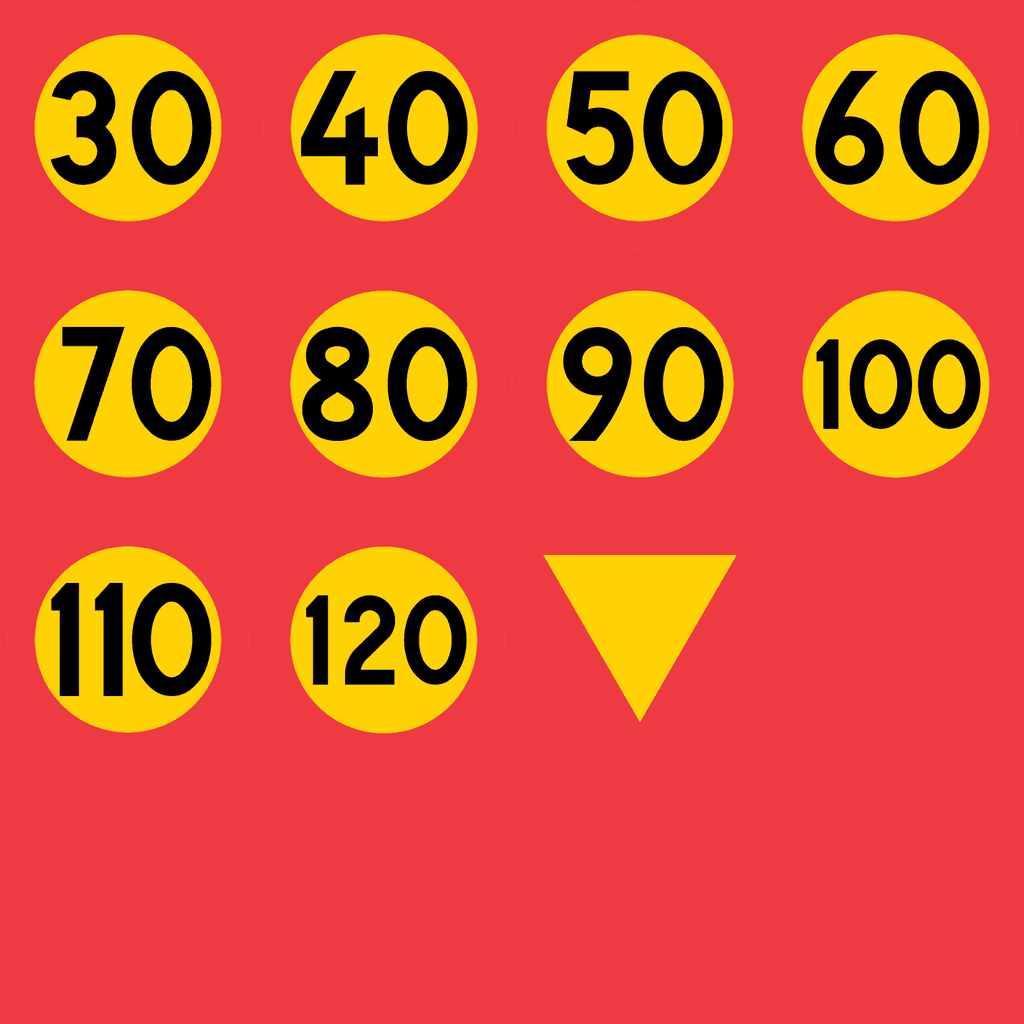
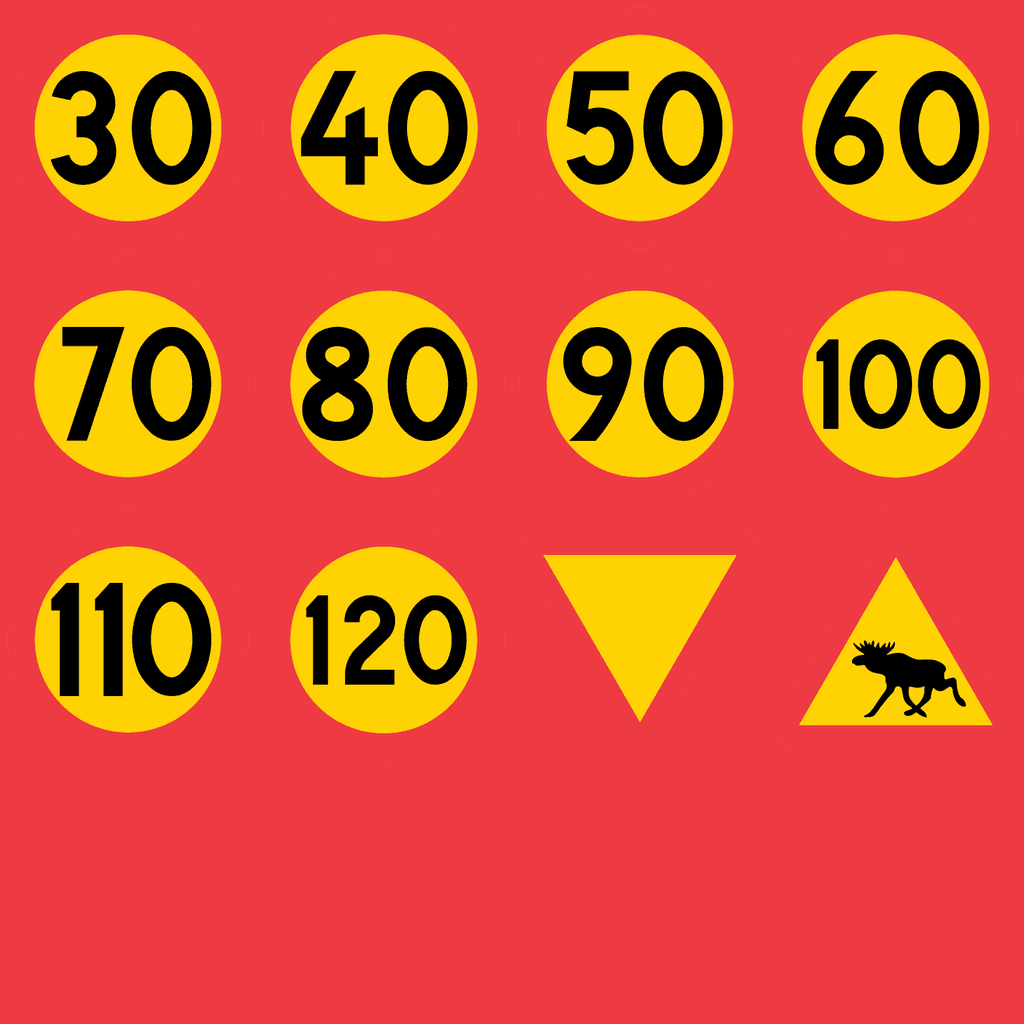
Sweden's moose sign A19, sparingly, on rural main roads
No data says where they stand (OpenStreetMap: 1 within 150 km of Borås; Trafikverket's API has no signs),
so a rule the user asked to keep light: rural two-lane trunk to tertiary roads at 70-100 km/h, a piece of
road junction to junction of L m (1 km or more) gets a pair with chance L / 15 km by a hash of its id, 150 m
in, facing the traffic entering it. One per 12-25 km per direction in Borås, Härnösand and Jämtland. No
motorway, 2+1 or divided road: those are fenced. Model: B1's triangle point up, Transportstyrelsen's A19-1
beside B1 on the first sign sheet.

Changed region(s): [[0.7812, 0.5312, 0.9688, 0.7188]]

diff --git a/server/sesigns.py b/server/sesigns.py
@@ -13,6 +13,11 @@ TSFS 2019:74.
     C1          both sides of the end of an exit ramp from a motorway or mötesfri väg, and of such an ögla (K237582)
     B3          both sides of a painted crossing without signals, at 60 km/h at most (TSFS 3 kap. 10-11 §§)
     E1, E2      where a motorway begins and ends, and on the ramps on to and off it (TSFS 6 kap. 3-4 §§, K237587)
+    A19         the moose, sparingly (the user: "very typical swedish thing but dont overdo it", 2026-11-03): no data
+                says where they stand (OpenStreetMap has 1 within 150 km of Borås, Trafikverket's API has no signs),
+                so on a rural two-lane main road at 70-100 km/h a piece of road (a map segment, between junctions) of
+                L m gets a pair with chance L / MOOSE_SPACING_M, by a hash of its id: MOOSE_FROM_M into it, each
+                facing the traffic entering it. Not on motorways, 2+1 roads or divided roads: those have game fences.
 
 Spansk sväng: the data has no turn bans (Overture's prohibited_transitions are not downloaded), so it is told by shape:
 a one-way link leaving a fast main road on the right that comes back across it, or ends beside it heading along it. Of
@@ -21,6 +26,7 @@ a one-way link leaving a fast main road on the right that comes back across it, 
 Tile independence: every place is worked out from motesfri._ways, which are the same near a place whichever tile reads
 them, and a tile keeps the rows in its box. Forest rows follow guardrails.forest_rows' layout.
 """
+import hashlib
 import math
 from collections import namedtuple
 
@@ -34,7 +40,7 @@ COUNTRIES = {"SE"}
 # Heights (mod trees.lua SE_SIGNS, tools/build_median_props.py): a row's height over its catalog's is its scale.
 HEIGHTS = {"se_f17": 2.70, "se_f17_400": 2.78, "se_f17_300": 2.78, "se_f17_200": 2.78, "se_f18_11": 2.70,
            "se_f18_12": 2.70, "se_f18_21": 2.70, "se_f2": 3.50, "se_c1": 2.10, "se_b3": 2.60, "se_e1": 2.70,
-           "se_e2": 2.70}
+           "se_e2": 2.70, "se_a19": 2.30}
 
 MIN_RUN_M = 300.0           # m of two lanes that are an overtaking stretch and not a junction's lane
 NEAR_M = 50.0               # F17 before the lane is 2.5 m wide where the arrows don't fit; and F18 before the barrier
@@ -61,6 +67,11 @@ RAMP_BACK_M = (5.0, 10.0, 15.0, 20.0, 30.0)  # m before a ramp's end its C1 stan
 RAMP_E_M = 20.0             # m from a ramp's end its E sign stand
 MOTORWAY_E_M = 30.0         # ... and a motorway's
 ZEBRA_KMH = 60.0
+MOOSE_SPACING_M = 15000.0   # m of such road to a pair of A19s, on average
+MOOSE_MIN_M = 1000.0        # m a piece of road is at least
+MOOSE_FROM_M = 150.0        # m into it from a junction
+MOOSE_SIDE_M = 1.5          # m past the road's edge (TSFS 1 kap. 13 §: 0.3-4.0)
+MOOSE_CLASSES = {"trunk", "primary", "secondary", "tertiary"}
 ZEBRA_M = 2.0               # m from a crossing's middle along the road to its B3 (M15 is 3-4 m long)
 ONE_ZEBRA_M = 6.0
 NEAR_NODE_M = 2.0           # crossings.NODE_NEAR_M
@@ -570,12 +581,41 @@ def all_signs(ways):
     return out
 
 
+def _moose_road(s):
+    return (s.kind == "paved" and not s.urban and not s.link and not s.oneway and s.cls in MOOSE_CLASSES
+            and 70.0 <= _limit(s) <= 100.0 and (s.lanes or 2) <= 2)
+
+
+def _chance(fid):
+    """A number in [0, 1) of a road's id, the same in every tile and run."""
+    return int(hashlib.sha1(str(fid).encode("utf-8")).hexdigest()[:8], 16) / 2.0 ** 32
+
+
+def moose_signs(near_roads):
+    """A19 on near_roads (build_tile's roads_out: whole ground pieces, the same in every tile), see the header."""
+    lines = [motesfri.Way(fid, s, {}, np.asarray(pts, np.float64)[:, :2], fid) for fid, s, pts, *_ in near_roads
+             if len(pts) >= 2]
+    out = []
+    for w in lines:
+        if not _moose_road(w.spec):
+            continue
+        length = _length(w.xy)
+        if length < MOOSE_MIN_M or _chance(w.fid) >= length / MOOSE_SPACING_M:
+            continue
+        for xy in (w.xy, w.xy[::-1]):
+            p, t = _point(xy, MOOSE_FROM_M)
+            q = p + _right(t) * (float(w.spec.width) / 2 + MOOSE_SIDE_M)
+            if _free(q, lines, {id(w)}):
+                out.append(Sign("se_a19", q, t))
+    return out
+
+
 def tile_rows(frame, ways, near_roads, nodes, box, elev, country):
     """Forest rows of road tile box: ways motesfri._ways' (None: only the zebras' B3, which need no wider cells),
     near_roads build_tile's roads_out, nodes crossings.nodes', elev(lat, lon) the ground."""
     if (country or "").upper() not in COUNTRIES:
         return []
     signs = all_signs(ways) if ways else []
-    signs = signs + zebra_signs(near_roads, (nodes or {}).get("zebras", ()))
+    signs = signs + zebra_signs(near_roads, (nodes or {}).get("zebras", ())) + moose_signs(near_roads)
     x0, y0, x1, y1 = box
     return [_row(s.group, s.p, s.facing, frame, elev) for s in signs if x0 <= s.p[0] < x1 and y0 <= s.p[1] < y1]

diff --git a/tools/build_median_props.py b/tools/build_median_props.py
@@ -123,6 +123,29 @@ def giveway(near):
     return m
 
 
+# A19-1, the moose (server/sesigns.py moose_signs): B1's triangle point up, its artwork beside B1's on bne_se_signs.png
+# (cell 3, 2), the same size (TSFS 2019:74 2 kap. 1 §: a warning sign's "normal" side 900 mm, B1's too)
+A19_CELL = (896.0, 640.0)
+A19_TOP = B1_TOP                    # (its lower edge B1's point: 1.5 m)
+
+
+def moose(near):
+    """A19: Z up from the ground, point up, its face towards -Y, on a post behind it."""
+    edge = [(x, -z) for x, z in reversed(b1_outline(6 if near else 1))]
+    mid = B1_LOW + (B1_TOP - B1_LOW) / 2
+    front, back = -B1_POST - B1_DEPTH, -B1_POST
+    m = Mesh(8)
+    m.face("bne_se_signs", [(x, front, mid + z) for x, z in edge],
+           [((A19_CELL[0] + x * B1_PX) / 1024, 1 - (A19_CELL[1] - z * B1_PX) / 1024) for x, z in edge])
+    m.face("bne_cable_steel", [(x, back, mid + z) for x, z in reversed(edge)])
+    if near:
+        for (x0, z0), (x1, z1) in zip(edge, edge[1:] + edge[:1]):
+            m.face("bne_cable_steel", [(x0, back, mid + z0), (x1, back, mid + z1), (x1, front, mid + z1),
+                                       (x0, front, mid + z0)])
+        m.cylinder("bne_cable_steel", 0.0, 0.0, -POST_SINK, A19_TOP - 0.05, B1_POST, caps=False)
+    return m
+
+
 # Sweden's signs of server/sesigns.py, on tools/build_swedish_signs.py's second sheet: picture's middle in px of 1024, its
 # drawn size in px, the plate in m and its shape. Sizes: "normal" of TSFS 2019:74 (F16-F18: 8 kap. 2 §, 1.20 m high; C1:
 # 4 kap. 1 § 0.60 m; B3: 3 kap. 1 § 0.60 m; E1, E2: 6 kap. 1 §, 0.90 m wide); F2 has none, its text's scale made it 2 m.
@@ -229,6 +252,11 @@ def main():
         path = os.path.join(OUT, name + ".dae")
         write_dae(path, name, [(32, se_sign(group, True)), (4, se_sign(group, False))], se_pole(group))
         print(path, os.path.getsize(path), "bytes", round(se_height(group), 2), "m")
+    path = os.path.join(OUT, "bne_se_a19.dae")
+    pole = Mesh(4)
+    pole.box("bne_cable_steel", (0.0, 0.0, A19_TOP / 2), (0.04, 0.04, A19_TOP / 2))
+    write_dae(path, "bne_se_a19", [(32, moose(True)), (4, moose(False))], pole)
+    print(path, os.path.getsize(path), "bytes", round(A19_TOP, 2), "m")
 
 
 if __name__ == "__main__":

diff --git a/server/tests/test_sesigns.py b/server/tests/test_sesigns.py
@@ -4,6 +4,7 @@ import os
 import re
 import sys
 import unittest
+import unittest.mock
 
 import numpy as np
 
@@ -321,3 +322,31 @@ class NodesTest(unittest.TestCase):
 
 if __name__ == "__main__":
     unittest.main()
+
+
+class MooseTest(unittest.TestCase):
+    def roads(self, **kw):
+        sp = spec(8.0, kw.get("cls", "secondary"), kw.get("oneway", False), kw.get("kmh", 80.0), 2,
+                  urban=kw.get("urban", False))
+        return [("r", sp, np.c_[np.zeros(9), np.linspace(0, kw.get("length", 3000.0), 9), np.zeros(9)], 13.0)]
+
+    def test_a_chosen_road_gets_one_each_way_facing_its_traffic(self):
+        with unittest.mock.patch.object(sesigns, "MOOSE_SPACING_M", 1.0):
+            got = sesigns.moose_signs(self.roads())
+        self.assertEqual(len(got), 2)
+        north_, south_ = sorted(got, key=lambda s: float(s.facing[1]), reverse=True)
+        self.assertAlmostEqual(float(north_.p[1]), sesigns.MOOSE_FROM_M, 3)
+        self.assertAlmostEqual(float(north_.p[0]), 4.0 + sesigns.MOOSE_SIDE_M, 3, "on the northbound traffic's right")
+        self.assertAlmostEqual(float(south_.p[1]), 3000.0 - sesigns.MOOSE_FROM_M, 3)
+        self.assertLess(float(south_.p[0]), 0.0)
+
+    def test_the_choice_is_the_roads_own(self):
+        self.assertEqual(sesigns._chance("r"), sesigns._chance("r"))
+        picked = sum(sesigns._chance(f"road{k}") < 0.2 for k in range(2000))
+        self.assertTrue(300 < picked < 500, picked)
+
+    def test_not_in_town_nor_on_fast_short_or_one_way_roads(self):
+        with unittest.mock.patch.object(sesigns, "MOOSE_SPACING_M", 1.0):
+            for kw in ({"urban": True}, {"cls": "motorway"}, {"kmh": 110.0}, {"kmh": 50.0}, {"length": 900.0},
+                       {"oneway": True}, {"cls": "residential"}):
+                self.assertEqual(sesigns.moose_signs(self.roads(**kw)), [], kw)

diff --git a/tools/build_swedish_signs.py b/tools/build_swedish_signs.py
@@ -3,7 +3,7 @@ bne_se_signs2.png (the signs of server/sesigns.py).
 
     python tools/build_swedish_signs.py <folder of the downloaded PNGs: c31-3.png ... c31-12.png, b1-1.png,
                                          f17-1.png, f18-2.png, f18-5.png, f18-6.png, t2-1.png, c1-1.png, b3-1.png,
-                                         e-11.png, e2-1.png, f2-1.png>
+                                         e-11.png, e2-1.png, f2-1.png, a19-1.png>
 
 The artwork is the agency's PNGs of the signs (transportstyrelsen.se, vagmarken: C31 30 to 120 km/h as c31-3 to c31-12,
 B1 as b1-1; fetched 2026-11-02), drawn in its Tratex. Each stands centred in a cell of 256 px on the signs' red, which
@@ -139,7 +139,7 @@ def sheet2(src):
 
 def main(src):
     sheet = Image.new("RGB", (CELL * 4, CELL * 4), RED)
-    names = [f"c31-{n}.png" for n in range(3, 13)] + ["b1-1.png"]
+    names = [f"c31-{n}.png" for n in range(3, 13)] + ["b1-1.png", "a19-1.png"]
     for k, name in enumerate(names):
         im = Image.open(os.path.join(src, name)).convert("RGBA")
         s = ART / max(im.size)

diff --git a/server/guardrails.py b/server/guardrails.py
@@ -27,7 +27,7 @@ BBOX_PAD_M = 2.0
 GROUPS = ("guardrail", "guardrail_start", "guardrail_end", "guardrail_back", "guardrail_back_start",
           "guardrail_back_end", "jersey", "jersey_end", "cable", "kantstolpe",
           "se_f17", "se_f17_400", "se_f17_300", "se_f17_200", "se_f18_11", "se_f18_12", "se_f18_21", "se_f2", "se_c1",
-          "se_b3", "se_e1", "se_e2")      # (sesigns.py's: rows go in after every barrier's, medians only reads those)
+          "se_b3", "se_e1", "se_e2", "se_a19")      # (sesigns.py's: rows go in after every barrier's, medians only reads those)
 G_JERSEY, G_JERSEY_END, G_CABLE = 6, 7, 8
 KINDS = {"guard_rail": 0, "jersey_barrier": G_JERSEY, "cable_barrier": G_CABLE}    # mapped class -> its module group
 HEIGHTS = {G_JERSEY: 0.88, G_JERSEY_END: 0.88, G_CABLE: 1.0}                       # (the rest: MODULE_HEIGHT_M)

diff --git a/CREDITS.md b/CREDITS.md
@@ -82,7 +82,7 @@ only, nothing redistributed. Licence notes marked *(verify)* must be re-checked 
 | Ontario (Canada) orthophotos (WMS / ArcGIS export, ws.geoservices.lrc.gov.on.ca) | the publishing agency | the near and middle-distance ground imagery there (`--imagery` source "ontario", ahead of NAIP / USGS / Sentinel-2) | per the service (open or free reuse; docs/research/2026-10-10-us-state-imagery.md and imagery-sources-world.md; re-verify before release) | "Ontario GEO imagery (Open Government Licence - Ontario)" | in use |
 | OSM US Layercake highways (GeoParquet, https://layercake.openstreetmap.us/layers/highways/) | OpenStreetMap US (Layercake); data by OpenStreetMap contributors | OpenStreetMap's road tags joined to Overture's road segments by way id (`server/osmtags.py`): lane counts, widths, speed limits, sidewalks, lighting, smoothness. Read in byte ranges, only the parts a map cell needs; cached with the map data | ODbL 1.0 | "© OpenStreetMap contributors" (already in the map credit line) | in use (2026-10-22) |
 | OpenStreetMap railways (weekly shards, https://tecnagamer.github.io/BeamNG.Earth-data/rail/) | OpenStreetMap contributors; built weekly from the planet by github.com/TecnaGamer/BeamNG.Earth-data (`tools/build_rail_tags.py`) | railway tags joined to Overture's rail segments by way id (`server/railtags.py`): lines not built yet left out, disused and abandoned ones worn, gauge, level crossings' barriers and lights | ODbL 1.0 | "© OpenStreetMap contributors" (already in the map credit line) | in use (2026-10-27) |
-| Vägmärken C31, B1, F2, F17, F18, T2, C1, B3, E1 and E2 (`bne_se_signs.png`, `bne_se_signs2.png`, `tools/build_swedish_signs.py`, https://www.transportstyrelsen.se/sv/vagtrafik/trafikregler-och-vagmarken/vagmarken/, 2026-11-02) | Transportstyrelsen | the faces of Sweden's speed limit, give-way, lane-end, separated-road, turning, no-entry, crossing and motorway signs | the signs are set out in Vägmärkesförordningen (2007:90); no reuse terms stated on the pages | Transportstyrelsen |
+| Vägmärken C31, B1, A19, F2, F17, F18, T2, C1, B3, E1 and E2 (`bne_se_signs.png`, `bne_se_signs2.png`, `tools/build_swedish_signs.py`, https://www.transportstyrelsen.se/sv/vagtrafik/trafikregler-och-vagmarken/vagmarken/, 2026-11-02) | Transportstyrelsen | the faces of Sweden's speed limit, give-way, moose warning, lane-end, separated-road, turning, no-entry, crossing and motorway signs | the signs are set out in Vägmärkesförordningen (2007:90); no reuse terms stated on the pages | Transportstyrelsen |
 | OpenStreetMap highway sign sources (weekly shards, https://tecnagamer.github.io/BeamNG.Earth-data/signs/) | OpenStreetMap contributors; built weekly from the planet by github.com/TecnaGamer/BeamNG.Earth-data (`tools/build_sign_tags.py`, cody196's PR #363 indexing) | the highway signs (`server/signstream.py`): exits' posted destinations and approaches (motorway_junction, link destination tags), overhead destinations (mainline destination tags, route relations' directions), Interstate mile references (highway=milestone) | ODbL 1.0 | "© OpenStreetMap contributors" (already in the map credit line) | dev (2026-10-28; shown once the data repo publishes signs/) |
 | U.S. Census Bureau TIGERweb, Generalized ACS 2024 "States 500K" | U.S. Census Bureau | the US state outlines the highway signs' styles look up (`server/sign_states.geojson`, `server/signstates.py`: state route shields, post spacing, portrait exit panels); simplified to ~300 m from cody196's PR #363 copy by `tools/build_sign_states.py`, the source query kept in the file | Public domain (a work of the US government) | none required | dev (2026-10-28) |
 | FRA Highway-Rail Crossing Inventory (Form 71, current; https://data.transportation.gov/d/m2f8-22s6) | US Federal Railroad Administration | each US level crossing's gates, flashing lights and crossbucks, matched to the map's crossings (`server/fra.py`, `server/railways.py` crossing_props). Built weekly into per-region files by github.com/TecnaGamer/BeamNG.Earth-data (`tools/build_fra_shards.py`) and read from its GitHub Pages | Public domain (a work of the US government) | none required | in use (2026-10-27) |

diff --git a/docs/SWEDEN_ROADS.md b/docs/SWEDEN_ROADS.md
@@ -154,6 +154,15 @@ Not built:
 - **Warning line before a solid line (M3, K237689):** the dash pattern is chosen per way, so changing the last 100 m needs a change in the line builder.
 - **Rest areas:** not attempted.
 
+## Moose signs (A19)
+
+`sesigns.moose_signs` puts the moose warning sign A19-1 on rural roads, sparingly: the user wanted the typical Swedish sign but not overdone.
+
+- **No data:** OpenStreetMap has 1 A19 within 150 km of Borås, and Trafikverket's API has no road signs, so the signs follow a rule.
+- **Rule:** rural two-lane trunk, primary, secondary and tertiary roads at 70-100 km/h, not one-way. A piece of road (a map segment, junction to junction) of at least 1 km and L m long gets a pair with chance L / 15 km, decided by a hash of its id, so every tile and every run agree. Each sign stands 150 m into the piece facing the traffic entering it, 1.5 m past the edge.
+- **Measured:** one sign per 12-25 km of such road per direction (Borås 312 km of road, 30 signs; Härnösand 125 km, 10; Jämtland 152 km, 26).
+- **Left out:** motorways, 2+1 and divided roads, which have game fences (viltstängsel) for long stretches; where fences end has no data.
+
 ## Road type detection
 
 Findings, and the rules built on them, which shipped in `0fbe4bbb`. The commit message says what the rules do.
